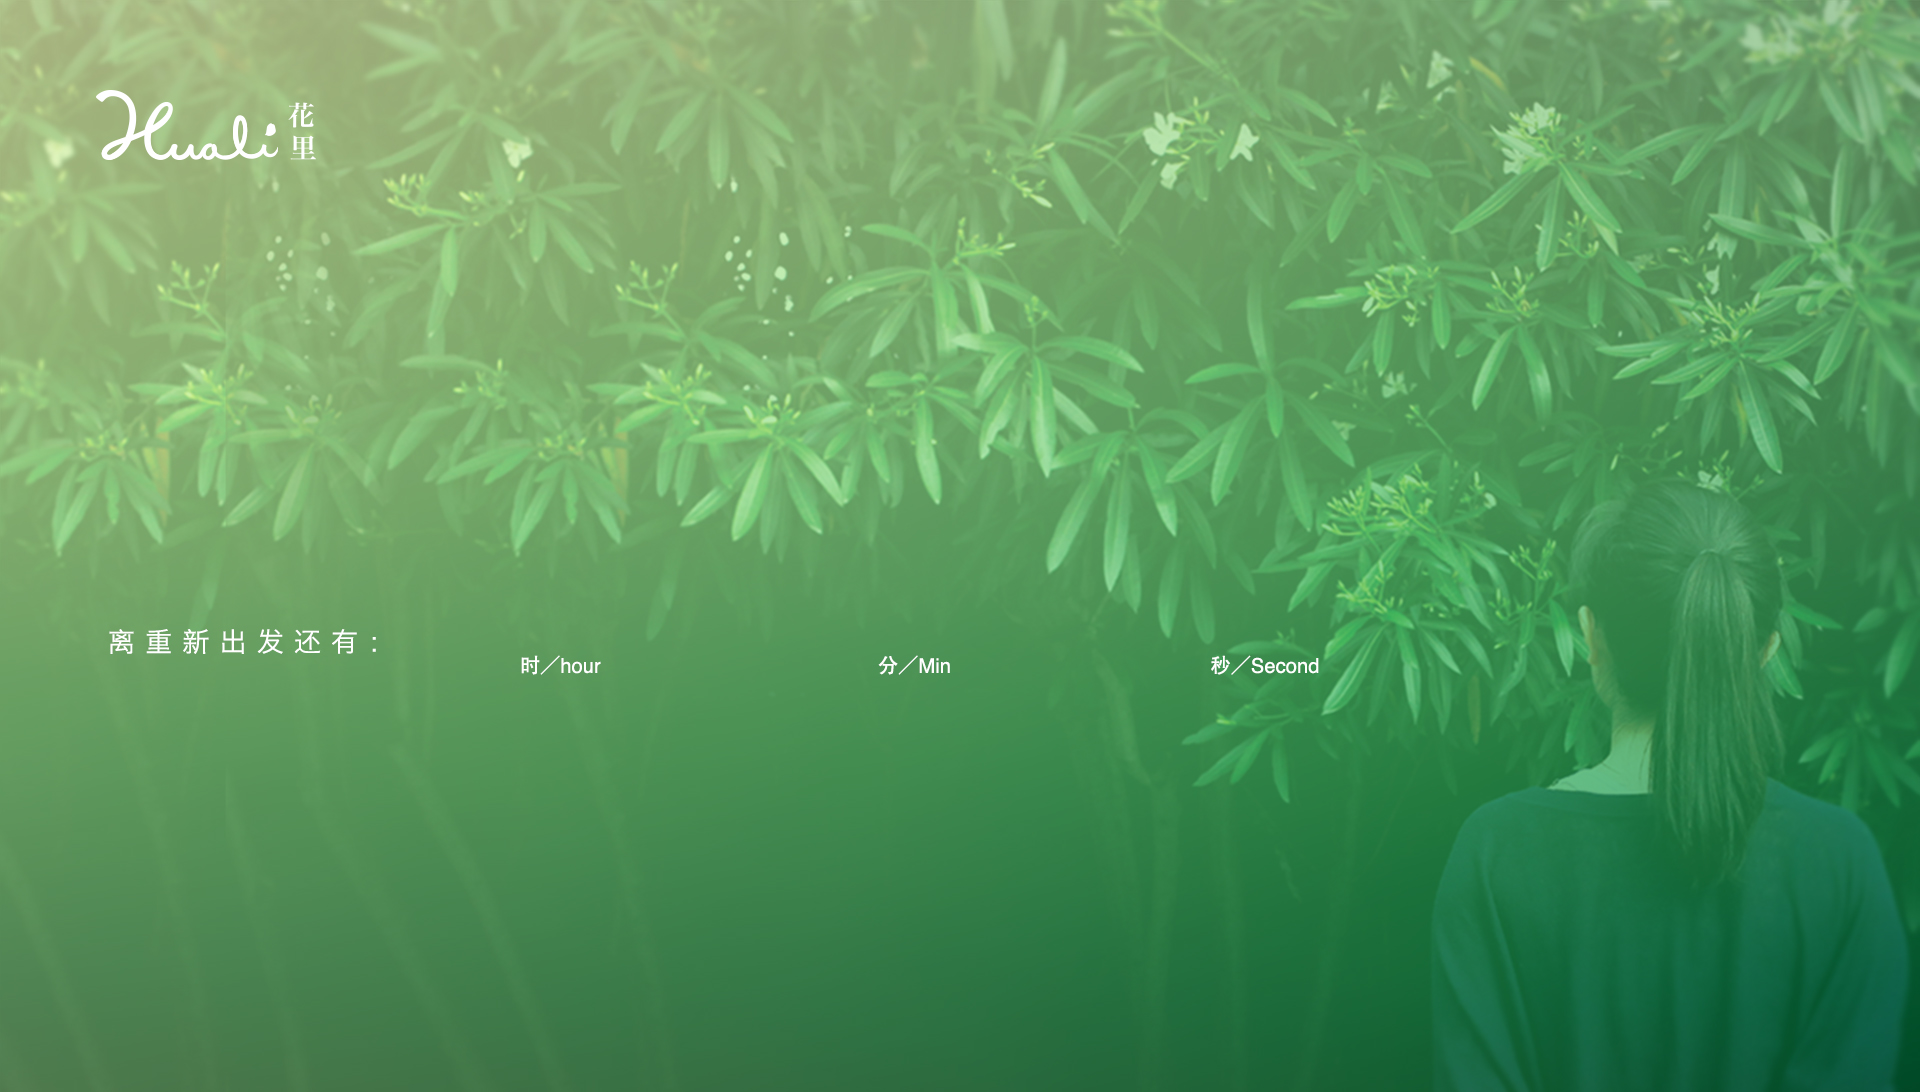
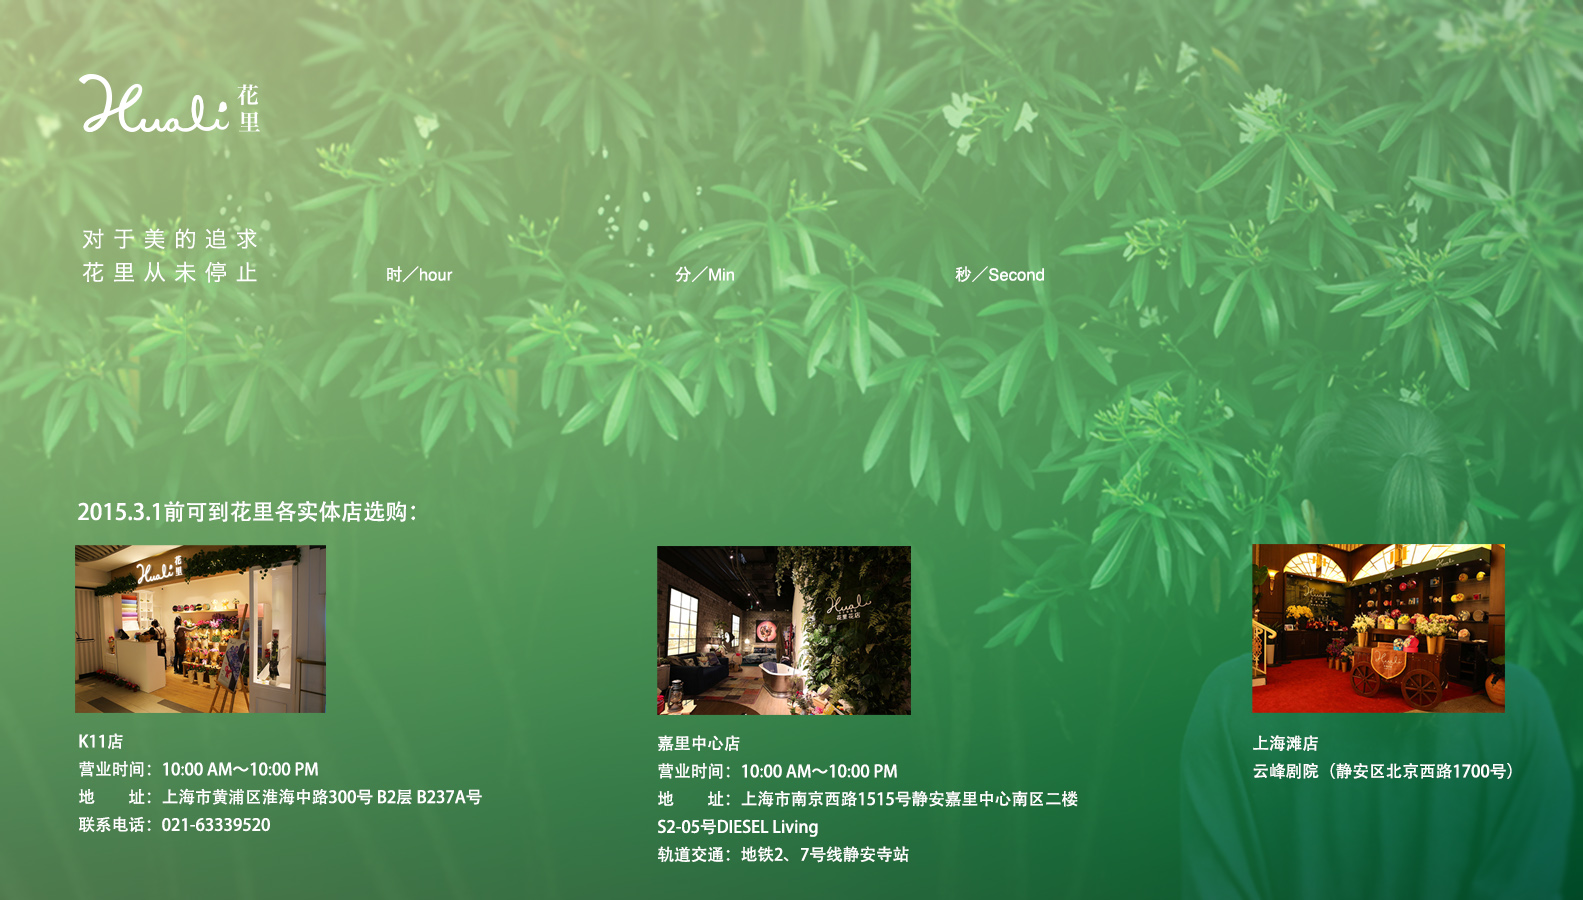
countdown

diff --git a/app/assets/stylesheets/modules/countdown.sass b/app/assets/stylesheets/modules/countdown.sass
@@ -5,11 +5,11 @@
     position: absolute
     z-index: 999
     color: white
-    top: 56%
+    top: 25%
     font-size: 18px
   .hours
-    left: 28%
+    left: 25.3%
   .min
-    left: 47%
+    left: 44.2%
   .sec
-    left: 65%
+    left: 62.3%
